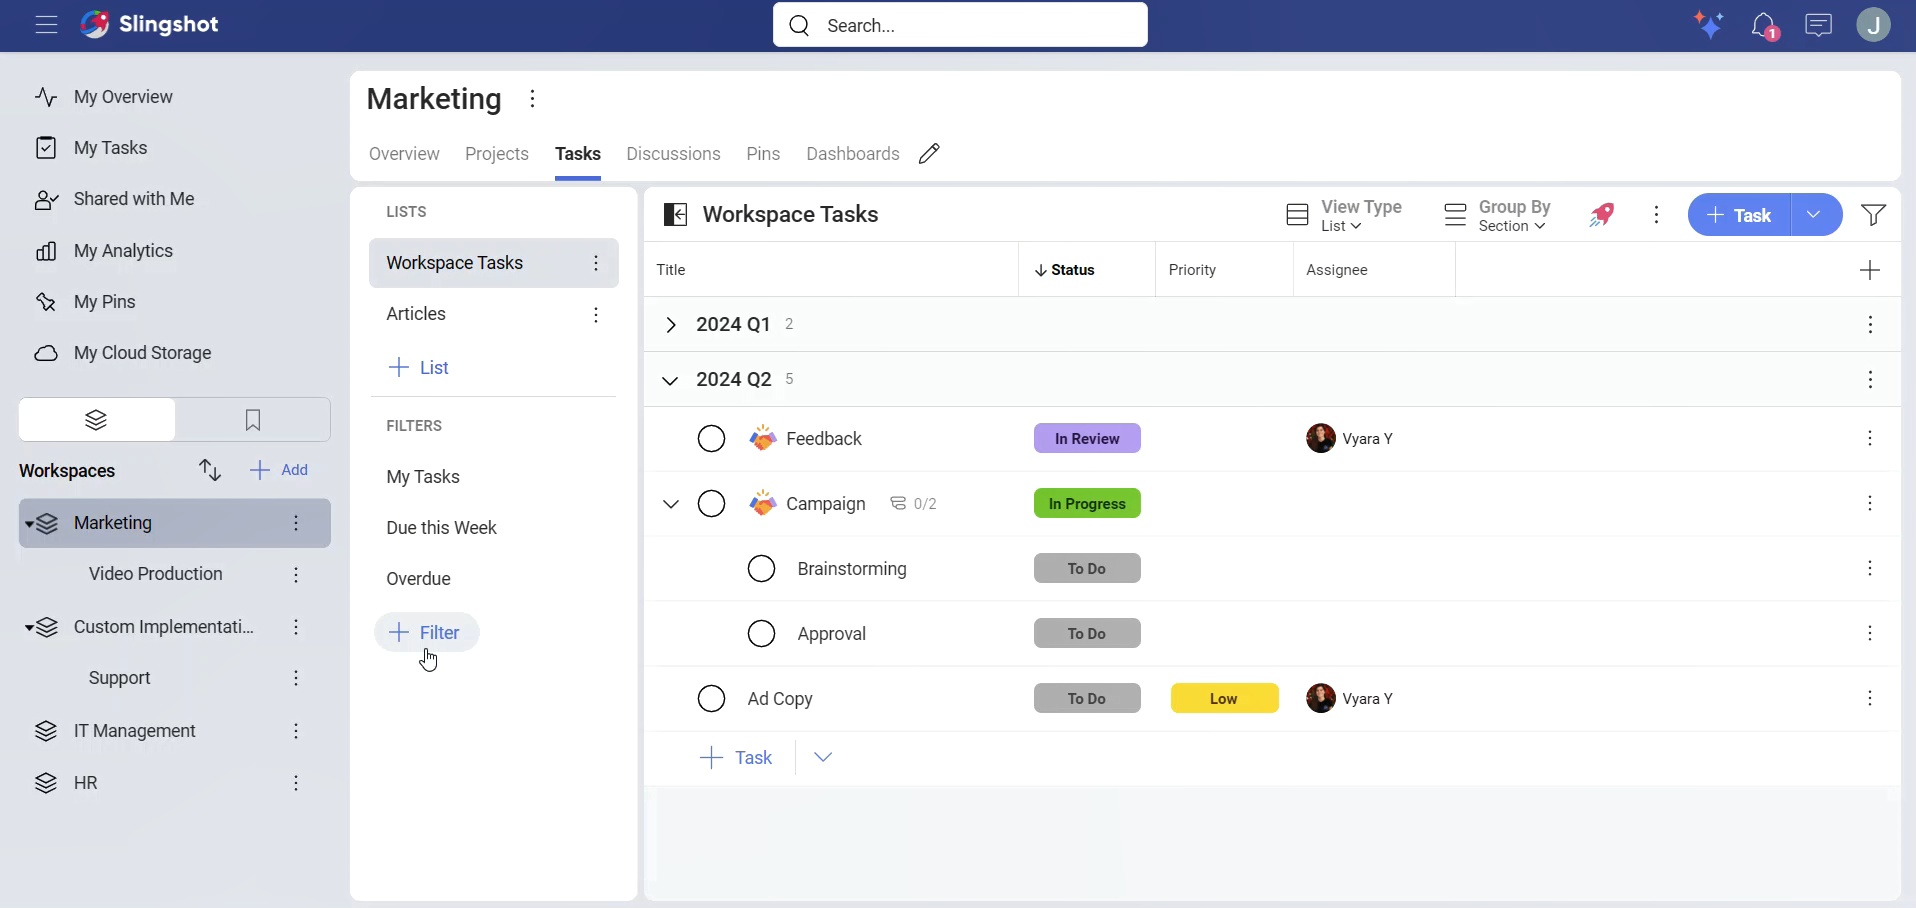
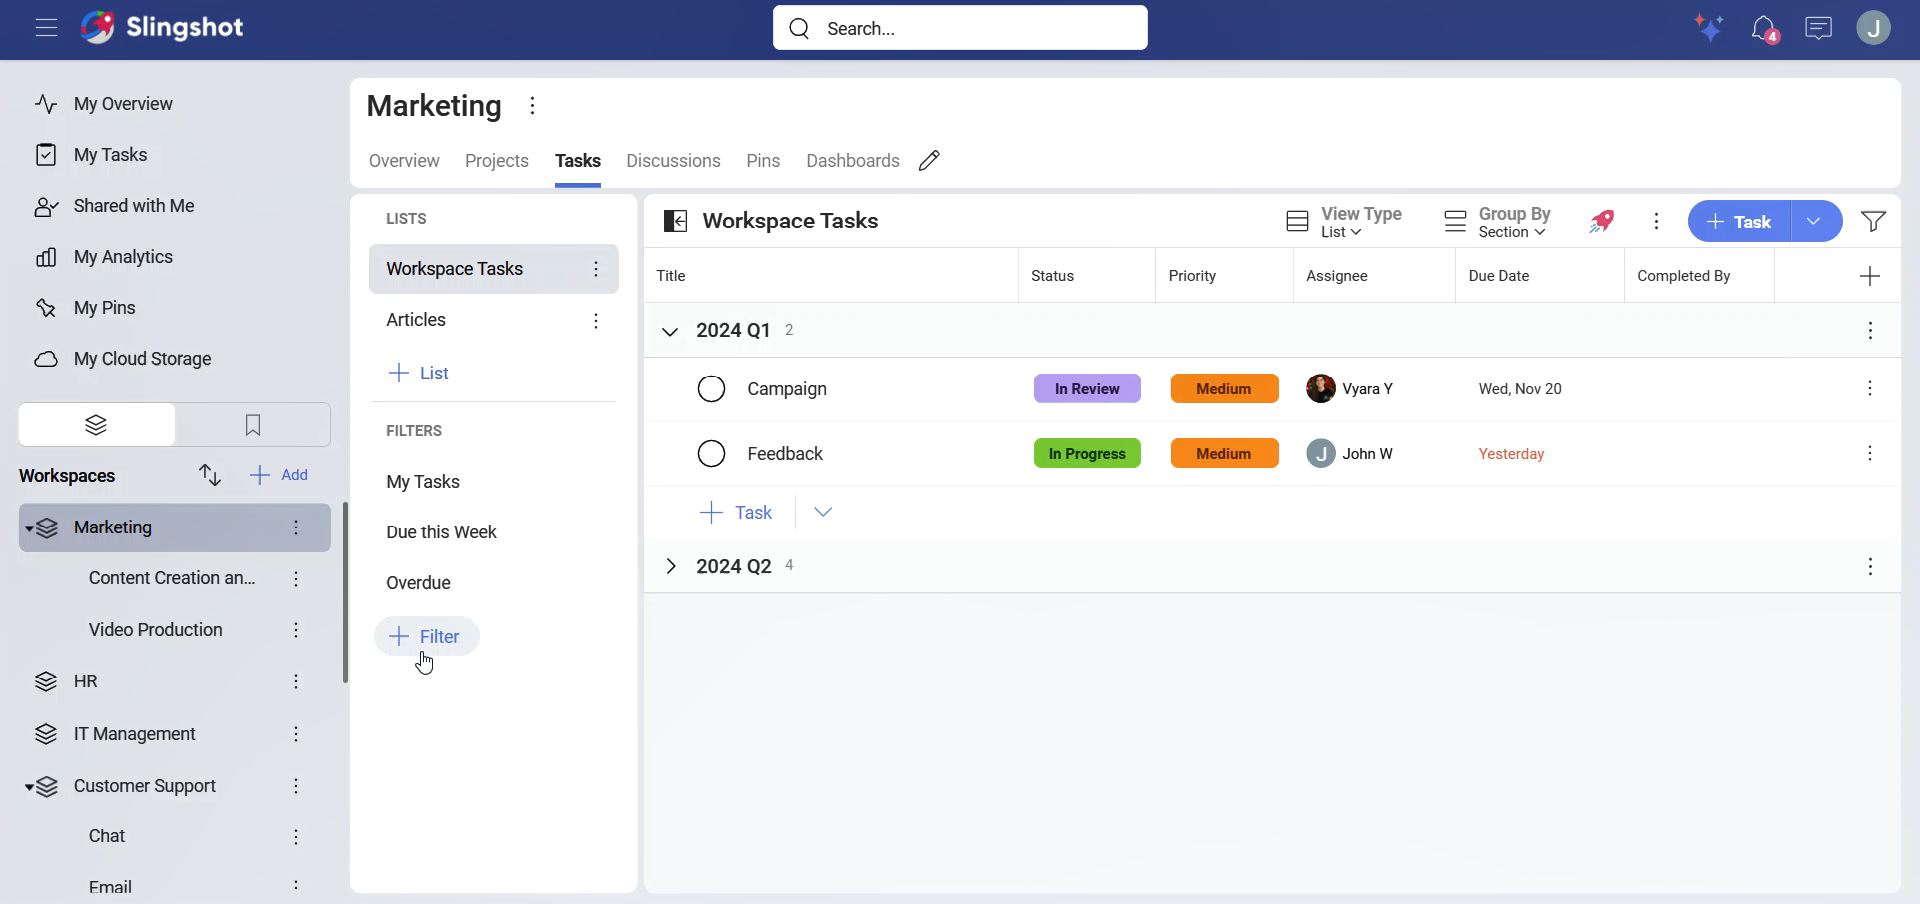
release

diff --git a/docfx/en/docs/tasks.md b/docfx/en/docs/tasks.md
@@ -9,7 +9,7 @@ When it comes to running a successful project – task management is at the hear
 
 There is a task tab available within your workspaces and projects, listing all the tasks assigned to everyone in those workspaces and projects. You can view your own tasks assigned to you within the **My Tasks** section.
 
-<img src="../images/my-tasks.png" alt="Assigned tasks in My Tasks section" width="90%" class="responsive-img"/>
+<img src="../images/my-tasks.png" alt="Assigned tasks in My Tasks section" class="responsive-img"/>
 
 ## What are Tasks?  
 
@@ -31,9 +31,9 @@ Subtasks can be created from inside the task card or from the parent task's over
 
 ## Task Fields  
 
-Tasks are very important for driving the productivity of your teams and projects. Your task card has the following fields:  
+Tasks are very important for driving the productivity of your teams and projects. Your task card, without any added [custom fields](custom-fields.md), has the following fields:  
 
-<img src="../images/task-fields.png" alt="Task card with all fields highlighted within Slingshot" width="900%" class="responsive-img"/>
+<img src="../images/task-fields.png" alt="Task card with all fields highlighted within Slingshot" class="responsive-img"/>
 
 1.	**Task Title**: Set a clear title for your tasks. 
 
@@ -53,17 +53,29 @@ Tasks are very important for driving the productivity of your teams and projects
 
 9. **Convert To**: Change the [type](./task-types.md) of the task.
 
-10. **Producitivity Boost**: Pin the task, start a chat or discussion directly from the [Productivity Boost](productivity-boost.md) icon.
+10. **Productivity Boost**: Pin the task, start a chat or discussion directly from the [Productivity Boost](productivity-boost.md) icon.
 
 If you want to add subtasks or dependencies to the task, you can scroll down in the task card.
 
-<img src="../images/task-fields-subtasks-dependencies.png" alt="Subtasks and dependencies in a task card" width="90%" class="responsive-img"/>
+<img src="../images/task-fields-subtasks-dependencies.png" alt="Subtasks and dependencies in a task card" class="responsive-img"/>
+
+### Default Task Fields
+
+For better organization of your tasks, you can use default task fields. To open the list of default task fields, you can click/tap on the **plus** button in the top right corner of a task list.
+
+<img src="../images/default-task-fields.png" alt="Default Task fields in a task list" class="responsive-img"/>
+
+Here you can choose from the following fields: *Completed, Status, Priority, Assignee, Start Date, Due Date, Attachments, Dependencies, Date Created, Description, Date Completed*, and *Completed By*.
+
+### Custom Task Fields 
+
+With Custom Fields, you can shape your tasks to better match your internal work processes. To find out more about custom fields, click/tap [here](custom-fields.md).
 
 ### Task Description
 
  In the task description section, you can add additional details around your tasks with the help of different text formatting tools. You can also add URLs, as well as emojis.
 
-  <img src="../images/task-description.png" alt="Example of a task description" width="90%" class="responsive-img"/>
+  <img src="../images/task-description.png" alt="Example of a task description" class="responsive-img"/>
 
 Note that currently these options are available only for macOS Monterey.
 
@@ -79,19 +91,19 @@ If you decide to duplicate a parent task, you can duplicate  all the subtasks as
 
 3.	Choose **Duplicate**.
 
- <img src="../images/duplicate-option-tasks.png" alt="Task duplication overflow menu" width="90%" class="responsive-img"/>
+ <img src="../images/duplicate-option-tasks.png" alt="Task duplication overflow menu" class="responsive-img"/>
 
 4.	A dialog will open, where you can choose what you want to keep when you duplicate the task. You can also change the title of the task. If you decide to keep the same assignees, you’ll be presented with the option to notify them once the task is created.
 
- <img src="../images/duplicate-task-filters.png" alt="Dialog with task duplication filters" width="90%" class="responsive-img"/>
+ <img src="../images/duplicate-task-filters.png" alt="Dialog with task duplication filters" class="responsive-img"/>
 
-5.	Once you’ve saved your preferences, you will see the task field where you can make changes. 
+5.	Once you’ve saved your preferences, you will see the task card where you can make changes. 
 
- <img src="../images/duplicate-task-example.png" alt="Example of a duplicate task and its fields" width="90%" class="responsive-img"/>
+ <img src="../images/duplicate-task-example.png" alt="Example of a duplicate task and its fields" class="responsive-img"/>
 
 6.	When you are ready, you can click on **Update**. You can find the task with the subtasks in the **My Tasks** section. 
 
- <img src="../images/duplicate-tasks-task-section.png" alt="Example of stored duplicated tasks" width="90%" class="responsive-img"/>
+ <img src="../images/duplicate-tasks-task-section.png" alt="Example of stored duplicated tasks" class="responsive-img"/>
 
 ## Organizing Tasks  
 
@@ -99,7 +111,7 @@ You can organize your tasks into lists to further group them together. Within li
 
 ## Task Views
 
-You can choose between four views (Calendar, List, Kanban, Timeline) to take advantage of a different layout to maximize utility. Use the **View Settings** drop-down menu (top right of the task list) to switch between views.  
+You can choose between four views (Calendar, List, Kanban, Timeline) to take advantage of a different layout to maximize utility. Use the **View Type** drop-down menu to switch between views.  
 
 Within each of the task views you can filter the tasks in a way that best suits your teams' goals.
 
@@ -107,7 +119,7 @@ Within each of the task views you can filter the tasks in a way that best suits 
 
 View your tasks on the calendar in order to have a better overview of your teams' schedules and their progress on tasks.
 
-<img src="../images/tasks-calendar-view.png" alt="Calendar view within Slingshot" width="90%" class="responsive-img"/>
+<img src="../images/tasks-calendar-view.png" alt="Calendar view within Slingshot" class="responsive-img"/>
 
 Use Calendar view if you want to: 
 
@@ -121,7 +133,7 @@ Use Calendar view if you want to:
 
 Project manage and update tasks faster from within your list view.  
 
-<img src="../images/tasks-list-view.png" alt="Task List View within Slingshot" width="90%" class="responsive-img"/>
+<img src="../images/tasks-list-view.png" alt="Task List View within Slingshot" class="responsive-img"/>
 
 Use List view if you want to: 
 
@@ -135,7 +147,7 @@ Use List view if you want to:
 
 View your tasks as cards within columns that represent different stages of the Status workflow. You can drag and drop your tasks between columns to change their status.
 
-<img src="../images/tasks-canban-view.png" alt="Task Kanban View within Slingshot" width="90%" class="responsive-img"/>
+<img src="../images/tasks-canban-view.png" alt="Task Kanban View within Slingshot" class="responsive-img"/>
 
 Use Kanban view if you want to:  
 
@@ -147,7 +159,7 @@ Use Kanban view if you want to:
 
 See a clear path for project completion and dependencies by using timeline view. Zoom in or out to see your timeline by days, weeks or months.
 
-<img src="../images/tasks-timeline-view.png" alt="Task Timeline View within Slingshot" width="90%" class="responsive-img"/>
+<img src="../images/tasks-timeline-view.png" alt="Task Timeline View within Slingshot" class="responsive-img"/>
 
 Use Timeline view if you want to: 
 
@@ -163,7 +175,7 @@ If you want your team members in a workspace or a project to land on task list, 
 
 2. Click/tap on **Save as Default View** to choose a default view. 
 
-<img src="../images/default-view-tasks.png" alt="Default View option in View Settings" width="90%" class="responsive-img"/>
+<img src="../images/default-view-tasks.png" alt="Default View option in View Settings" class="responsive-img"/>
 
 You can always reset the settings to their original state when you choose **Reset to Default View**.
 
@@ -203,17 +215,17 @@ In order to create a new filter, you can:
 
 1. Click/tap on **+Filter** under *Filters*.
 
-<img class="responsive-img" src="../images/filter-button.png" width="90%" alt="New filter option">
+<img class="responsive-img" src="../images/filter-button.png" alt="New filter option">
 
 2. Add the name of the filter and choose what to include in it.
 
-<img class="responsive-img" src="../images/options-filter.png" width="90%" alt="Example of a new filter in the filters list">
+<img class="responsive-img" src="../images/options-filter.png" alt="Example of a new filter in the filters list">
 
 3. Click/tap on **Save**.
 
 4. You will see the new filter in the filters list.
 
-<img class="responsive-img" src="../images/new-filter-filters-list.png" width="90%" alt="Different fields that can be added to a new filter">
+<img class="responsive-img" src="../images/new-filter-filters-list.png" alt="Different fields that can be added to a new filter">
 
 If you want to change the way tasks are being filtered, you can make different adjustments to your filter. For example, if you want to filter only by the status **In Progress**, you can:
 
@@ -225,7 +237,7 @@ If you want to change the way tasks are being filtered, you can make different a
 
 4. Select **Save** to save your changes. 
 
-<img class="responsive-img" src="../images/task-filters-demo.gif" width="90%" alt="Demo presenting the steps for creating a filter">
+<img class="responsive-img" src="../images/task-filters-demo.gif" alt="Demo presenting the steps for creating a filter">
 
 >[!IMPORTANT] **Slingshot Tip**: For those times that you can't find a specific task, try expanding collapsed panels, removing existing filters, and/or adding filters using the properties of the task you want. Remember that the icon changes to help you identify when you have active filters or not.
 
@@ -233,5 +245,5 @@ You can also add more rules to the filter from the **+Rule** button.
 
 For example, we wanted to create a filter for John Williams’ tasks that have a *Release* [field](custom-fields.md) with the year *2024* as a value. 
 
-<img src="../images/advanced-filters.png" alt="Advanced Filtering highlighted within Slingshot" class="responsive-img" width="90%"/>
+<img src="../images/advanced-filters.png" alt="Advanced Filtering highlighted within Slingshot" class="responsive-img"/>
 

diff --git a/docfx/en/docs/release-notes.md b/docfx/en/docs/release-notes.md
@@ -1,5 +1,19 @@
 # Release Notes
 
+### 1.0.3175 (Nov - 2024)
+
+#### New Features
+
+- Improved Default Task Fields List: Users can now use *Completed By* and *Date Completed* to organize their tasks.
+
+#### Bug Fixes and Improvements
+
+- [Bug Fix] Assignee filter value would disappear in global search.
+
+- [Bug Fix] Some chat messages on Android would turn into links incorrectly.
+
+- [Bug Fix] While using the numeric custom field, a wrong value would appear in the activity area.
+
 ### 1.0.3120 (Sept - 2024)
  
 #### New Features
